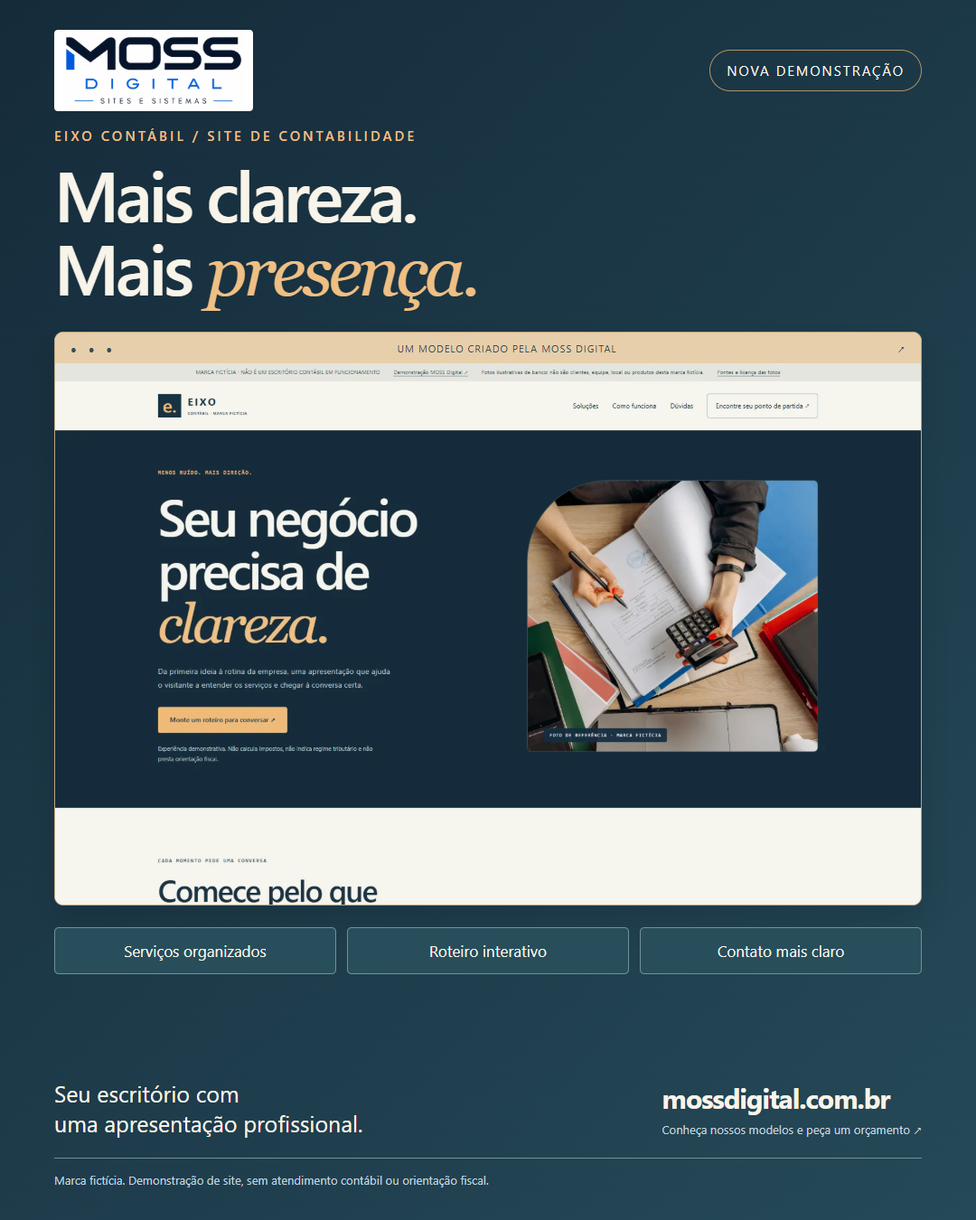
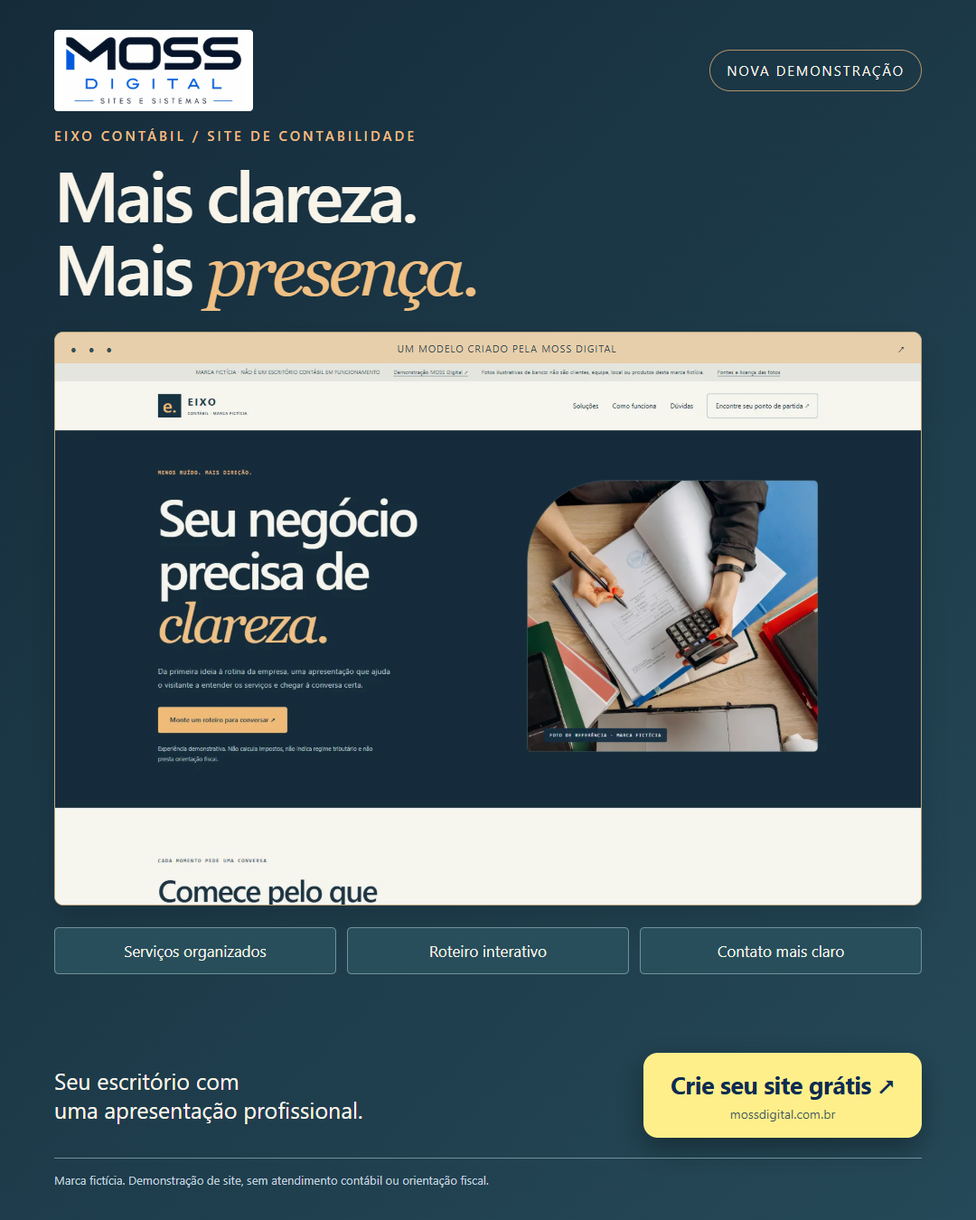
Adiciona botao Crio seu site gratis nas capas do Instagram
- demo-cover.css: rodape do layout compartilhado vira pila amarela
  (#ffef8a / #0d2b52, mesma da faixa do inicio) com a chamada e o URL
- 6 fontes atualizadas (casamento, contabilidade, estrutura,
  floricultura, otica e fotos-reais) e 20 PNGs regenerados em
  1080x1350 com verificacao de limites
- capas autorais (entrelares, restaurante360, utilidade) ja tinham
  botao proprio e nao foram alteradas
- backup das fontes e PNGs anteriores em _backup-capas-antes-do-botao-20261106
- tools: renderizar-capas-botao.py e atualizar-texto-botao-capa.py

Changed region(s): [[0.6417, 0.84, 0.9472, 0.9333], [0.0611, 0.8711, 0.3667, 0.9333]]

diff --git a/divulgacao/instagram/floricultura/Capa Instagram - Flora e Afeto.html b/divulgacao/instagram/floricultura/Capa Instagram - Flora e Afeto.html
@@ -2,4 +2,4 @@
 <html lang="pt-BR"><head><meta charset="utf-8"><meta name="viewport" content="width=device-width,initial-scale=1"><meta name="robots" content="noindex,nofollow"><title>Capa Instagram — Flora & Afeto | MOSS Digital</title><style>
 *{box-sizing:border-box}body{margin:0;background:#e6e1d8;color:#2b3e32;font-family:'Segoe UI',Arial,sans-serif}.cover{position:relative;display:flex;flex-direction:column;width:1080px;height:1350px;padding:45px 64px 40px;overflow:hidden;background:#f7f3eb}.cover:before{content:'';position:absolute;width:560px;height:560px;border:1px solid #d9cedc;border-radius:50%;right:-335px;top:25px;box-shadow:0 0 0 50px #e9e1eb50,0 0 0 100px #e9e1eb30;pointer-events:none}.top{display:flex;align-items:center;justify-content:space-between;gap:35px;height:65px}.top img{width:210px;height:auto}.top>span{font-size:17px;letter-spacing:2px;border:1px solid #a7b29f;border-radius:30px;padding:11px 18px}.eyebrow{font-size:16px;letter-spacing:3px;font-weight:600;color:#53654d;margin:30px 0 16px}h1{font:400 83px/1.03 Georgia,serif;letter-spacing:-4px;margin:0 0 28px}h1 em{color:#795c80;font-weight:400}.preview{margin:0;border:1px solid #bbb8a8;border-radius:12px;overflow:hidden;box-shadow:0 18px 35px #3a332012;background:#fff}.browser{height:36px;background:#e7e2d9;display:flex;align-items:center;justify-content:space-between;padding:0 16px;font-size:12px;letter-spacing:1px;color:#53614e}.dots{color:#8e7895;letter-spacing:6px}.preview img{display:block;width:100%;height:auto;aspect-ratio:8/5;object-fit:cover}.features{display:flex;gap:12px;margin-top:25px}.features span{display:flex;align-items:center;justify-content:center;flex:1;text-align:center;border:1px solid #c6cbb8;background:#e9ecdf;border-radius:6px;padding:13px 10px;font-size:17px;font-weight:600}.bottom{margin-top:auto;display:flex;align-items:center;justify-content:space-between;padding-top:25px;gap:25px}.bottom p{font:27px/1.3 Georgia,serif;max-width:420px;margin:0}.bottom strong{display:block;font-size:30px;letter-spacing:-1px}.bottom small{font-size:14px;display:block;margin-top:6px;color:#53614e}.disclaimer{margin:22px 0 0;padding-top:15px;border-top:1px solid #d3d4c7;font-size:13px;color:#596556;letter-spacing:.2px}
 body{background:#d9c4a7;color:#3e2d23}.cover{background:#e9dccb}.cover:before{border-color:#b38d46;box-shadow:0 0 0 50px #b9954f18,0 0 0 100px #b9954f0d}.top>span{border-color:#ad8a49;color:#6b4b22}.eyebrow{color:#715323}h1 em{color:#80601f}.preview{border-color:#af8d52;background:#f8efdf}.browser{background:#d6bd96;color:#5e4428}.dots{color:#826020}.features span{border-color:#b99b68;background:#e0caa4;color:#543b25}.bottom small{color:#625040}.disclaimer{border-color:#b99b68;color:#625040}
-</style></head><body><main class="cover"><header class="top"><img src="../../../assets/img/fotos/moss-logo-horizontal.webp" alt="MOSS Digital"><span>NOVA DEMONSTRAÇÃO</span></header><p class="eyebrow">FLORA & AFETO / FLORICULTURA</p><h1>Um site que<br><em>faz florescer.</em></h1><figure class="preview"><div class="browser"><span class="dots" aria-hidden="true">● ● ●</span><span>UMA EXPERIÊNCIA CRIADA PELA MOSS DIGITAL</span><span aria-hidden="true">↗</span></div><img src="../../../assets/img/previas/floricultura.webp" alt="Captura da demo Flora e Afeto"></figure><div class="features"><span>Monte seu buquê</span><span>Explore a coleção</span><span>Personalize o cartão</span></div><footer class="bottom"><p>Seu negócio também merece<br>uma presença especial.</p><div><strong>mossdigital.com.br</strong><small>Conheça nossos modelos e peça um orçamento ↗</small></div></footer><p class="disclaimer">Marca, produtos e valores fictícios. Demonstração de site, sem compras ou entregas reais.</p></main></body></html>
+</style></head><body><main class="cover"><header class="top"><img src="../../../assets/img/fotos/moss-logo-horizontal.webp" alt="MOSS Digital"><span>NOVA DEMONSTRAÇÃO</span></header><p class="eyebrow">FLORA & AFETO / FLORICULTURA</p><h1>Um site que<br><em>faz florescer.</em></h1><figure class="preview"><div class="browser"><span class="dots" aria-hidden="true">● ● ●</span><span>UMA EXPERIÊNCIA CRIADA PELA MOSS DIGITAL</span><span aria-hidden="true">↗</span></div><img src="../../../assets/img/previas/floricultura.webp" alt="Captura da demo Flora e Afeto"></figure><div class="features"><span>Monte seu buquê</span><span>Explore a coleção</span><span>Personalize o cartão</span></div><footer class="bottom"><p>Seu negócio também merece<br>uma presença especial.</p><div><strong>Crie seu site grátis ↗</strong><small>mossdigital.com.br</small></div></footer><p class="disclaimer">Marca, produtos e valores fictícios. Demonstração de site, sem compras ou entregas reais.</p></main></body></html>

diff --git a/divulgacao/instagram/fotos-reais/Capa Instagram.html b/divulgacao/instagram/fotos-reais/Capa Instagram.html
@@ -1,1 +1,1 @@
-<!doctype html><html lang="pt-BR"><head><meta charset="utf-8"><meta name="viewport" content="width=device-width,initial-scale=1"><meta name="robots" content="noindex,nofollow"><title>Modelos com fotos — Capa Instagram MOSS Digital</title><link rel="stylesheet" href="../demo-cover.css"><style>h1{font-size:76px}.preview img{object-fit:cover}.eyebrow{min-height:24px}#name{font-weight:600}.disclaimer{font-size:12px}</style></head><body><main class="cover"><header class="top"><img src="../../../assets/img/fotos/moss-logo-horizontal.webp" alt="MOSS Digital"><span>CONHEÇA ESTE MODELO</span></header><p class="eyebrow" id="segment">DEMONSTRAÇÃO MOSS DIGITAL</p><h1>Seu negócio.<br>Uma nova <em>presença.</em></h1><figure class="preview"><div class="browser"><span>● ● ●</span><span id="name">MODELO DEMONSTRATIVO</span><span>↗</span></div><img id="preview" alt="Captura da demonstração com fotografias ilustrativas"></figure><div class="features"><span>Visual para celular</span><span>Identidade própria</span><span>Contato facilitado</span></div><footer class="bottom"><p>Explore a demonstração<br>e imagine sua marca aqui.</p><div><strong>mossdigital.com.br</strong><small>Conheça os modelos e peça um orçamento ↗</small></div></footer><p class="disclaimer">Fotos de banco ilustrativas. Marca e dados fictícios. Sem vínculo, endosso ou operações reais.</p></main><script>(async()=>{const slug=new URLSearchParams(location.search).get('demo');const response=await fetch('../../../assets/img/demo-photos/DEMOS.json');if(!response.ok)throw Error('Catálogo indisponível');const entries=await response.json();const demo=entries.find(d=>d.slug===slug);if(!demo)throw Error('Modelo desconhecido');document.getElementById('segment').textContent=demo.segment.toUpperCase();document.getElementById('name').textContent=demo.name.toUpperCase();const img=document.getElementById('preview');img.src='../../../assets/img/previas/foto-'+demo.slug+'.webp';await img.decode();document.body.dataset.ready='true'})().catch(error=>{document.body.dataset.ready='error';console.error(error.message)});</script></body></html>
+<!doctype html><html lang="pt-BR"><head><meta charset="utf-8"><meta name="viewport" content="width=device-width,initial-scale=1"><meta name="robots" content="noindex,nofollow"><title>Modelos com fotos — Capa Instagram MOSS Digital</title><link rel="stylesheet" href="../demo-cover.css"><style>h1{font-size:76px}.preview img{object-fit:cover}.eyebrow{min-height:24px}#name{font-weight:600}.disclaimer{font-size:12px}</style></head><body><main class="cover"><header class="top"><img src="../../../assets/img/fotos/moss-logo-horizontal.webp" alt="MOSS Digital"><span>CONHEÇA ESTE MODELO</span></header><p class="eyebrow" id="segment">DEMONSTRAÇÃO MOSS DIGITAL</p><h1>Seu negócio.<br>Uma nova <em>presença.</em></h1><figure class="preview"><div class="browser"><span>● ● ●</span><span id="name">MODELO DEMONSTRATIVO</span><span>↗</span></div><img id="preview" alt="Captura da demonstração com fotografias ilustrativas"></figure><div class="features"><span>Visual para celular</span><span>Identidade própria</span><span>Contato facilitado</span></div><footer class="bottom"><p>Explore a demonstração<br>e imagine sua marca aqui.</p><div><strong>Crie seu site grátis ↗</strong><small>mossdigital.com.br</small></div></footer><p class="disclaimer">Fotos de banco ilustrativas. Marca e dados fictícios. Sem vínculo, endosso ou operações reais.</p></main><script>(async()=>{const slug=new URLSearchParams(location.search).get('demo');const response=await fetch('../../../assets/img/demo-photos/DEMOS.json');if(!response.ok)throw Error('Catálogo indisponível');const entries=await response.json();const demo=entries.find(d=>d.slug===slug);if(!demo)throw Error('Modelo desconhecido');document.getElementById('segment').textContent=demo.segment.toUpperCase();document.getElementById('name').textContent=demo.name.toUpperCase();const img=document.getElementById('preview');img.src='../../../assets/img/previas/foto-'+demo.slug+'.webp';await img.decode();document.body.dataset.ready='true'})().catch(error=>{document.body.dataset.ready='error';console.error(error.message)});</script></body></html>

diff --git a/divulgacao/instagram/casamento/Capa Instagram.html b/divulgacao/instagram/casamento/Capa Instagram.html
@@ -1,1 +1,1 @@
-<!doctype html><html lang="pt-BR"><head><meta charset="utf-8"><meta name="robots" content="noindex,nofollow"><title>Casamento — Capa Instagram</title><link rel="stylesheet" href="../demo-cover.css"></head><body class="wedding"><main class="cover"><header class="top"><img src="../../../assets/img/fotos/moss-logo-horizontal.webp" alt="MOSS Digital"><span>NOVA DEMONSTRAÇÃO</span></header><p class="eyebrow">CLARA & TOMÁS / SITE DE CASAMENTO</p><h1>Um dia especial.<br>Um site <em>para lembrar.</em></h1><figure class="preview"><div class="browser"><span>● ● ●</span><span>UM MODELO CRIADO PELA MOSS DIGITAL</span><span>↗</span></div><img src="../../../assets/img/previas/casamento.webp" alt="Captura da demonstração de casamento Clara e Tomás"></figure><div class="features"><span>História do casal</span><span>Programação do dia</span><span>Prévia de presença</span></div><footer class="bottom"><p>Uma apresentação<br>com a identidade de vocês.</p><div><strong>mossdigital.com.br</strong><small>Conheça nossos modelos e peça um orçamento ↗</small></div></footer><p class="disclaimer">Casal, evento e local fictícios. Sem confirmação real de presença ou compra de presentes.</p></main></body></html>
+<!doctype html><html lang="pt-BR"><head><meta charset="utf-8"><meta name="robots" content="noindex,nofollow"><title>Casamento — Capa Instagram</title><link rel="stylesheet" href="../demo-cover.css"></head><body class="wedding"><main class="cover"><header class="top"><img src="../../../assets/img/fotos/moss-logo-horizontal.webp" alt="MOSS Digital"><span>NOVA DEMONSTRAÇÃO</span></header><p class="eyebrow">CLARA & TOMÁS / SITE DE CASAMENTO</p><h1>Um dia especial.<br>Um site <em>para lembrar.</em></h1><figure class="preview"><div class="browser"><span>● ● ●</span><span>UM MODELO CRIADO PELA MOSS DIGITAL</span><span>↗</span></div><img src="../../../assets/img/previas/casamento.webp" alt="Captura da demonstração de casamento Clara e Tomás"></figure><div class="features"><span>História do casal</span><span>Programação do dia</span><span>Prévia de presença</span></div><footer class="bottom"><p>Uma apresentação<br>com a identidade de vocês.</p><div><strong>Crie seu site grátis ↗</strong><small>mossdigital.com.br</small></div></footer><p class="disclaimer">Casal, evento e local fictícios. Sem confirmação real de presença ou compra de presentes.</p></main></body></html>

diff --git a/divulgacao/instagram/contabilidade/Capa Instagram.html b/divulgacao/instagram/contabilidade/Capa Instagram.html
@@ -1,1 +1,1 @@
-<!doctype html><html lang="pt-BR"><head><meta charset="utf-8"><meta name="robots" content="noindex,nofollow"><title>Contabilidade — Capa Instagram</title><link rel="stylesheet" href="../demo-cover.css"></head><body class="accounting"><main class="cover"><header class="top"><img src="../../../assets/img/fotos/moss-logo-horizontal.webp" alt="MOSS Digital"><span>NOVA DEMONSTRAÇÃO</span></header><p class="eyebrow">EIXO CONTÁBIL / SITE DE CONTABILIDADE</p><h1>Mais clareza.<br>Mais <em>presença.</em></h1><figure class="preview"><div class="browser"><span>● ● ●</span><span>UM MODELO CRIADO PELA MOSS DIGITAL</span><span>↗</span></div><img src="../../../assets/img/previas/contabilidade.webp" alt="Captura da demonstração Eixo Contábil"></figure><div class="features"><span>Serviços organizados</span><span>Roteiro interativo</span><span>Contato mais claro</span></div><footer class="bottom"><p>Seu escritório com<br>uma apresentação profissional.</p><div><strong>mossdigital.com.br</strong><small>Conheça nossos modelos e peça um orçamento ↗</small></div></footer><p class="disclaimer">Marca fictícia. Demonstração de site, sem atendimento contábil ou orientação fiscal.</p></main></body></html>
+<!doctype html><html lang="pt-BR"><head><meta charset="utf-8"><meta name="robots" content="noindex,nofollow"><title>Contabilidade — Capa Instagram</title><link rel="stylesheet" href="../demo-cover.css"></head><body class="accounting"><main class="cover"><header class="top"><img src="../../../assets/img/fotos/moss-logo-horizontal.webp" alt="MOSS Digital"><span>NOVA DEMONSTRAÇÃO</span></header><p class="eyebrow">EIXO CONTÁBIL / SITE DE CONTABILIDADE</p><h1>Mais clareza.<br>Mais <em>presença.</em></h1><figure class="preview"><div class="browser"><span>● ● ●</span><span>UM MODELO CRIADO PELA MOSS DIGITAL</span><span>↗</span></div><img src="../../../assets/img/previas/contabilidade.webp" alt="Captura da demonstração Eixo Contábil"></figure><div class="features"><span>Serviços organizados</span><span>Roteiro interativo</span><span>Contato mais claro</span></div><footer class="bottom"><p>Seu escritório com<br>uma apresentação profissional.</p><div><strong>Crie seu site grátis ↗</strong><small>mossdigital.com.br</small></div></footer><p class="disclaimer">Marca fictícia. Demonstração de site, sem atendimento contábil ou orientação fiscal.</p></main></body></html>

diff --git a/divulgacao/instagram/otica/Capa Instagram.html b/divulgacao/instagram/otica/Capa Instagram.html
@@ -1,1 +1,1 @@
-<!doctype html><html lang="pt-BR"><head><meta charset="utf-8"><meta name="robots" content="noindex,nofollow"><title>Ótica — Capa Instagram</title><link rel="stylesheet" href="../demo-cover.css"></head><body class="optica"><main class="cover"><header class="top"><img src="../../../assets/img/fotos/moss-logo-horizontal.webp" alt="MOSS Digital"><span>NOVA DEMONSTRAÇÃO</span></header><p class="eyebrow">LUMINA ÓTICA / SITE PARA ÓTICA</p><h1>Ver bem.<br>Parecer <em>bem.</em></h1><figure class="preview"><div class="browser"><span>● ● ●</span><span>UM MODELO CRIADO PELA MOSS DIGITAL</span><span>↗</span></div><img src="../../../assets/img/previas/otica.webp" alt="Captura da demonstração Lumina Ótica"></figure><div class="features"><span>Armações de grau e sol</span><span>Guia de estilo</span><span>Lista de prova local</span></div><footer class="bottom"><p>Sua ótica com<br>uma apresentação <em>profissional.</em></p><div><strong>mossdigital.com.br</strong><small>Conheça nossos modelos e peça um orçamento ↗</small></div></footer><p class="disclaimer">Marca fictícia. Sem loja, venda, exame de vista ou envio de dados. Recursos reais são definidos por orçamento.</p></main></body></html>
+<!doctype html><html lang="pt-BR"><head><meta charset="utf-8"><meta name="robots" content="noindex,nofollow"><title>Ótica — Capa Instagram</title><link rel="stylesheet" href="../demo-cover.css"></head><body class="optica"><main class="cover"><header class="top"><img src="../../../assets/img/fotos/moss-logo-horizontal.webp" alt="MOSS Digital"><span>NOVA DEMONSTRAÇÃO</span></header><p class="eyebrow">LUMINA ÓTICA / SITE PARA ÓTICA</p><h1>Ver bem.<br>Parecer <em>bem.</em></h1><figure class="preview"><div class="browser"><span>● ● ●</span><span>UM MODELO CRIADO PELA MOSS DIGITAL</span><span>↗</span></div><img src="../../../assets/img/previas/otica.webp" alt="Captura da demonstração Lumina Ótica"></figure><div class="features"><span>Armações de grau e sol</span><span>Guia de estilo</span><span>Lista de prova local</span></div><footer class="bottom"><p>Sua ótica com<br>uma apresentação <em>profissional.</em></p><div><strong>Crie seu site grátis ↗</strong><small>mossdigital.com.br</small></div></footer><p class="disclaimer">Marca fictícia. Sem loja, venda, exame de vista ou envio de dados. Recursos reais são definidos por orçamento.</p></main></body></html>

diff --git a/divulgacao/instagram/estrutura/Capa Instagram.html b/divulgacao/instagram/estrutura/Capa Instagram.html
@@ -1,1 +1,1 @@
-<!doctype html><html lang="pt-BR"><head><meta charset="utf-8"><meta name="robots" content="noindex,nofollow"><title>Estrutura do site — Capa Instagram</title><link rel="stylesheet" href="../demo-cover.css"></head><body><main class="cover"><header class="top"><img src="../../../assets/img/fotos/moss-logo-horizontal.webp" alt="MOSS Digital"><span>GUIA VISUAL</span></header><p class="eyebrow">UM SITE, EXPLICADO POR PARTES</p><h1>Antes das fotos,<br>entenda a <em>estrutura.</em></h1><figure class="preview"><div class="browser"><span>● ● ●</span><span>CLIQUE EM CADA BLOCO PARA ENTENDER</span><span>↗</span></div><img src="../../../assets/img/previas/estrutura.webp" alt="Captura do guia visual de estrutura do site"></figure><div class="features"><span>Cabeçalho e banner</span><span>Serviços e galeria</span><span>Contato e rodapé</span></div><footer class="bottom"><p>Veja onde cada informação<br>pode entrar no seu site.</p><div><strong>mossdigital.com.br</strong><small>Conheça a estrutura e explore os modelos ↗</small></div></footer><p class="disclaimer">Guia ilustrativo. Seções e funcionalidades são definidas conforme o projeto.</p></main></body></html>
+<!doctype html><html lang="pt-BR"><head><meta charset="utf-8"><meta name="robots" content="noindex,nofollow"><title>Estrutura do site — Capa Instagram</title><link rel="stylesheet" href="../demo-cover.css"></head><body><main class="cover"><header class="top"><img src="../../../assets/img/fotos/moss-logo-horizontal.webp" alt="MOSS Digital"><span>GUIA VISUAL</span></header><p class="eyebrow">UM SITE, EXPLICADO POR PARTES</p><h1>Antes das fotos,<br>entenda a <em>estrutura.</em></h1><figure class="preview"><div class="browser"><span>● ● ●</span><span>CLIQUE EM CADA BLOCO PARA ENTENDER</span><span>↗</span></div><img src="../../../assets/img/previas/estrutura.webp" alt="Captura do guia visual de estrutura do site"></figure><div class="features"><span>Cabeçalho e banner</span><span>Serviços e galeria</span><span>Contato e rodapé</span></div><footer class="bottom"><p>Veja onde cada informação<br>pode entrar no seu site.</p><div><strong>Crie seu site grátis ↗</strong><small>mossdigital.com.br</small></div></footer><p class="disclaimer">Guia ilustrativo. Seções e funcionalidades são definidas conforme o projeto.</p></main></body></html>

diff --git a/divulgacao/instagram/demo-cover.css b/divulgacao/instagram/demo-cover.css
@@ -2,3 +2,9 @@
 .wedding .cover{background:#eee9dc;color:#3f453b}.wedding .top>span{border-color:#aab395}.wedding .eyebrow{color:#65714e}.wedding h1{font-family:Georgia,serif;font-weight:400;font-size:82px}.wedding h1 em{color:#826537}.wedding .preview{border-color:#acb397}.wedding .browser{background:#d6dcc9;color:#48553d}.wedding .features>span{background:#e0e3d3;border-color:#adb99b}.wedding .bottom>p{font-family:Georgia,serif}.wedding .bottom small,.wedding .disclaimer{color:#606754}.wedding .disclaimer{border-color:#b7bea7}
 .accounting .cover{background:linear-gradient(135deg,#152b3a,#254958);color:#f8f4e9}.accounting .eyebrow{color:#efbf83}.accounting h1 em{color:#efbf83;font-family:Georgia,serif}.accounting .top>span{border-color:#b39268}.accounting .browser{background:#e7cfab;color:#394d53}.accounting .preview{border-color:#bda680}.accounting .features>span{background:#284e5b;border-color:#71919a}.accounting .disclaimer{border-color:#71919a}
 .optica .cover{background:radial-gradient(ellipse at 90% 0,#1f5b60,transparent 55%),#0f2a31;color:#eef5f4}.optica .eyebrow{color:#7fd4cf}.optica h1 em{color:#f0b45c;font-family:Georgia,serif;font-style:italic}.optica .top>span{border-color:#4f8b8b}.optica .preview{border-color:#4f8b8b}.optica .browser{background:#cfe3e2;color:#17454e}.optica .features>span{background:#17414a;border-color:#4f8b8b}.optica .bottom small,.optica .disclaimer{color:#b6d0ce}.optica .disclaimer{border-color:#3f7376}
+
+/* Botao impresso no rodape: a capa precisa mostrar por onde entrar no site.
+   Amarelo da faixa do inicio; especificidade .cover vence os temas claros. */
+.bottom>div{flex:none;background:#ffef8a;color:#0d2b52;border-radius:16px;padding:17px 30px;text-align:center;box-shadow:0 12px 30px #00000059}
+.cover .bottom>div strong{display:block;font-size:27px;letter-spacing:-.5px;color:#0d2b52;white-space:nowrap}
+.cover .bottom>div small{display:block;font-size:14px;margin-top:5px;color:#0d2b52;opacity:.78;white-space:nowrap}

diff --git a/tools/renderizar-capas-botao.py b/tools/renderizar-capas-botao.py
@@ -1,0 +1,129 @@
+"""Renderiza as 20 capas do layout compartilhado (demo-cover.css) com o botao CTA.
+
+Capas: casamento, contabilidade, estrutura, floricultura, otica (1 cada) e
+fotos-reais (15 via ?demo=slug). Regenera os PNGs em divulgacao/instagram/.
+Nao publica; os PNGs sao copiados depois para _repo-site.
+
+Uso: python tools/renderizar-capas-botao.py [--dry]
+"""
+import asyncio
+import sys
+from functools import partial
+from http.server import SimpleHTTPRequestHandler, ThreadingHTTPServer
+from pathlib import Path
+from threading import Thread
+
+from playwright.async_api import async_playwright
+
+sys.stdout.reconfigure(encoding='utf-8', errors='replace')
+
+REPO = Path(__file__).resolve().parent.parent
+CHROME = r'C:\Program Files\Google\Chrome\Application\chrome.exe'
+DRY = '--dry' in sys.argv
+
+SINGLES = [
+    ('casamento', 'Capa Instagram.html', 'Capa Instagram - Casamento.png'),
+    ('contabilidade', 'Capa Instagram.html', 'Capa Instagram - Contabilidade.png'),
+    ('estrutura', 'Capa Instagram.html', 'Capa Instagram - Estrutura.png'),
+    ('floricultura', 'Capa Instagram - Flora e Afeto.html', 'Capa Instagram - Flora e Afeto.png'),
+    ('otica', 'Capa Instagram.html', 'Capa Instagram - Otica.png'),
+]
+SLUGS = ['acessoaberto', 'assistencia', 'bar', 'casamento', 'contabilidade',
+         'entrelares', 'festas', 'floricultura', 'fretes', 'junto',
+         'pontocomum', 'raizfeira', 'reciclo', 'restaurante360', 'tatuagem']
+
+
+class Handler(SimpleHTTPRequestHandler):
+    def log_message(self, *args):
+        pass
+
+
+async def render(base, browser):
+    context = await browser.new_context(
+        viewport={'width': 1080, 'height': 1350}, device_scale_factor=1,
+        reduced_motion='reduce')
+    page = await context.new_page()
+    falhas, total = [], 0
+
+    tarefas = [
+        (f'divulgacao/instagram/{pasta}/{html}',
+         f'divulgacao/instagram/{pasta}/{png}')
+        for pasta, html, png in SINGLES
+    ] + [
+        (f'divulgacao/instagram/fotos-reais/Capa%20Instagram.html?demo={slug}',
+         f'divulgacao/instagram/fotos-reais/Capa Instagram - {slug}.png')
+        for slug in SLUGS
+    ]
+
+    for url_rel, png_rel in tarefas:
+        destino = REPO / png_rel
+        if not destino.exists():
+            falhas.append(f'PNG de destino ausente: {png_rel}')
+            continue
+        resp = await page.goto(base + url_rel, wait_until='networkidle')
+        if not resp or resp.status != 200:
+            falhas.append(f'{url_rel}: HTTP {resp.status if resp else "?"}')
+            continue
+        # fotos-reais espera o carregamento assincrono do catalogo
+        if 'demo=' in url_rel:
+            await page.wait_for_function(
+                'document.body.dataset.ready === "true"', timeout=15000)
+        await page.wait_for_function(
+            'Array.from(document.images).every(i => i.complete && i.naturalWidth > 0)',
+            timeout=15000)
+        m = await page.evaluate('''() => ({
+            w: document.documentElement.scrollWidth,
+            h: document.documentElement.scrollHeight,
+            itens: Array.from(document.querySelector('.cover').children)
+                .map(el => { const r = el.getBoundingClientRect();
+                             return {top: r.top, bottom: r.bottom}; })})''')
+        problemas = []
+        if m['w'] != 1080 or m['h'] != 1350:
+            problemas.append(f"paginA {m['w']}x{m['h']}")
+        if any(i['top'] < -0.5 or i['bottom'] > 1350.5 for i in m['itens']):
+            problemas.append('conteudo fora de 1350px (cortado)')
+        if any(m['itens'][k]['bottom'] > m['itens'][k + 1]['top'] + 1
+               for k in range(len(m['itens']) - 1)):
+            problemas.append('irmãos sobrepostos')
+        if problemas:
+            falhas.append(f'{png_rel}: ' + '; '.join(problemas))
+            continue
+        if DRY:
+            print(f'  [dry] {png_rel}')
+        else:
+            await page.screenshot(path=str(destino))
+            print(f'  ok  {png_rel}')
+        total += 1
+
+    await context.close()
+    return total, falhas
+
+
+def main():
+    servidor = ThreadingHTTPServer(
+        ('127.0.0.1', 0), partial(Handler, directory=str(REPO)))
+    Thread(target=servidor.serve_forever, daemon=True).start()
+    base = f'http://127.0.0.1:{servidor.server_port}/'
+    try:
+        asyncio.run(asyncio_main(base))
+    finally:
+        servidor.shutdown()
+        servidor.server_close()
+
+
+async def asyncio_main(base):
+    async with async_playwright() as p:
+        browser = await p.chromium.launch(executable_path=CHROME, headless=True)
+        total, falhas = await render(base, browser)
+        await browser.close()
+    print(f'\n{total}/20 renderizadas' + (' (dry)' if DRY else ''))
+    if falhas:
+        print('FALHAS:')
+        for f in falhas:
+            print('  -', f)
+        sys.exit(1)
+    print('TUDO OK')
+
+
+if __name__ == '__main__':
+    main()

diff --git a/tools/verificar-ao-vivo.py b/tools/verificar-ao-vivo.py
@@ -1,0 +1,76 @@
+"""Verifica o site publicado em mossdigital.com.br (somente leitura)."""
+import sys
+import urllib.request
+
+sys.stdout.reconfigure(encoding='utf-8', errors='replace')
+
+BASE = 'https://mossdigital.com.br'
+FALHAS = []
+
+
+def checar(cond, msg):
+    print(('  OK   ' if cond else '  FALHA') + ' ' + msg)
+    if not cond:
+        FALHAS.append(msg)
+
+
+def get(caminho):
+    req = urllib.request.Request(BASE + caminho, headers={'User-Agent': 'Mozilla/5.0'})
+    try:
+        with urllib.request.urlopen(req, timeout=30) as r:
+            return r.status, r.read().decode('utf-8', 'replace')
+    except urllib.error.HTTPError as e:
+        return e.code, ''
+    except Exception as e:
+        return 0, str(e)
+
+
+print('=== PAGINAS ===')
+for caminho, esperado in [
+    ('/index.html', 200),
+    ('/modelos.html', 200),
+    ('/sistemas.html', 200),
+    ('/estrutura.html', 200),
+    ('/privacidade.html', 200),
+    ('/404.html', 200),
+    ('/sitemap.xml', 200),
+    ('/assets/css/moss-futurista.css', 200),
+    ('/assets/img/favicon.svg', 200),
+]:
+    status, corpo = get(caminho)
+    checar(status == esperado, f'{caminho} -> {status}')
+
+print('\n=== CONTEUDO ===')
+_, idx = get('/index.html')
+checar('zap-flutuante' in idx, 'index: botao fixo do WhatsApp')
+checar('privacidade.html' in idx[idx.rfind('<footer>'):], 'index: link Privacidade no rodape')
+checar('rel="icon"' in idx, 'index: favicon declarado')
+
+_, mod = get('/modelos.html')
+n = mod.count('btn-create')
+checar(n >= 36, f'modelos: {n} botoes Criar o meu site gratis (>=36)')
+checar('Criar o meu site gratis' in mod or 'Criar o meu site gr\u00e1tis' in mod, 'modelos: texto do botao')
+
+_, sis = get('/sistemas.html')
+checar('zap-flutuante' in sis, 'sistemas: botao fixo')
+
+_, estr = get('/estrutura.html')
+checar('zap-flutuante' in estr, 'estrutura: botao fixo')
+
+_, priv = get('/privacidade.html')
+checar('noindex' not in priv[:2000] or 'index, follow' in priv, 'privacidade: indexavel')
+checar('MOSS DIGITAL / PRIVACIDADE' in priv, 'privacidade: eyebrow correto')
+
+_, sm = get('/sitemap.xml')
+checar('moss-cardapio' not in sm, 'sitemap: moss-cardapio removido')
+checar('privacidade.html' in sm, 'sitemap: privacidade presente')
+checar(sm.count('<loc>') == 16, f'sitemap: 16 URLs ({sm.count("<loc>")})')
+
+print('\n=== 404 PROFUNDO ===')
+status, corpo = get('/pagina-que-nao-existe-verificar')
+checar(status == 404, f'caminho inexistente -> {status}')
+
+print('\n' + ('TUDO OK no ar ✅' if not FALHAS else f'{len(FALHAS)} FALHAS ❌'))
+for f in FALHAS:
+    print('  -', f)
+sys.exit(1 if FALHAS else 0)

diff --git a/tools/atualizar-texto-botao-capa.py b/tools/atualizar-texto-botao-capa.py
@@ -1,0 +1,55 @@
+"""Troca o rodape-texto das capas compartilhadas por um botao CTA.
+
+Padrao antigo: <div><strong>mossdigital.com.br</strong><small>Conheca...</small></div>
+Padrao novo:  <div><strong>Crie seu site gratis &#8599;</strong><small>mossdigital.com.br</small></div>
+
+Uso: python tools/atualizar-texto-botao-capa.py [--dry]
+"""
+import re
+import sys
+from pathlib import Path
+
+sys.stdout.reconfigure(encoding='utf-8', errors='replace')
+
+WORKTREE = Path(r'C:\Users\Sylvia Camillo\Downloads\00 - MOSS Digital\10 - Plataforma MOSS\publicacao-controlada')
+REPO = Path(r'C:\Users\Sylvia Camillo\Downloads\00 - MOSS Digital\_repo-site')
+DRY = '--dry' in sys.argv
+
+FONTES = [
+    'divulgacao/instagram/casamento/Capa Instagram.html',
+    'divulgacao/instagram/contabilidade/Capa Instagram.html',
+    'divulgacao/instagram/estrutura/Capa Instagram.html',
+    'divulgacao/instagram/floricultura/Capa Instagram - Flora e Afeto.html',
+    'divulgacao/instagram/otica/Capa Instagram.html',
+    'divulgacao/instagram/fotos-reais/Capa Instagram.html',
+]
+
+PADRAO = re.compile(
+    r'<div><strong>mossdigital\.com\.br</strong><small>[^<]*</small></div>')
+NOVO = ('<div><strong>Crie seu site grátis ↗</strong>'
+        '<small>mossdigital.com.br</small></div>')
+
+falhas = 0
+for raiz, rotulo in [(WORKTREE, 'worktree'), (REPO, '_repo-site')]:
+    print(f'=== {rotulo} ===')
+    for rel in FONTES:
+        caminho = raiz / rel
+        if not caminho.exists():
+            print(f'  AUSENTE: {rel}')
+            falhas += 1
+            continue
+        t = caminho.read_text(encoding='utf-8')
+        if NOVO in t:
+            print(f'  já atualizado: {Path(rel).name}')
+            continue
+        novo, n = PADRAO.subn(NOVO, t)
+        if n != 1:
+            print(f'  ERRO ({n} ocorrências): {rel}')
+            falhas += 1
+            continue
+        print(f'  atualizado: {Path(rel).name}')
+        if not DRY:
+            caminho.write_text(novo, encoding='utf-8')
+
+print('\nDRY-RUN' if DRY else '\ngravado' if not falhas else f'\n{falhas} FALHAS')
+sys.exit(1 if falhas else 0)
